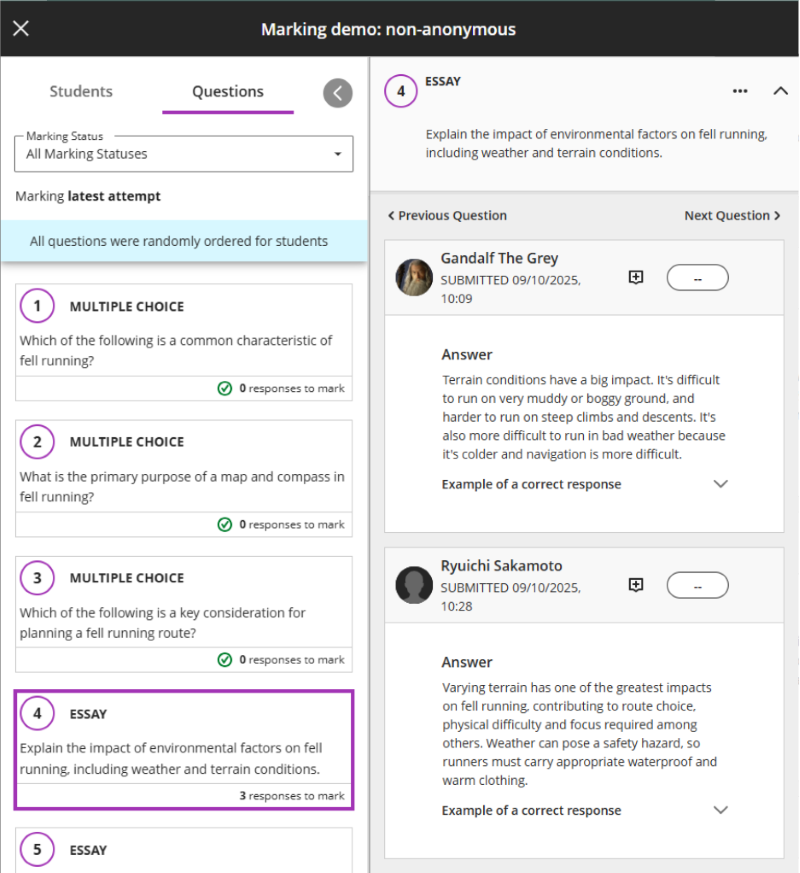
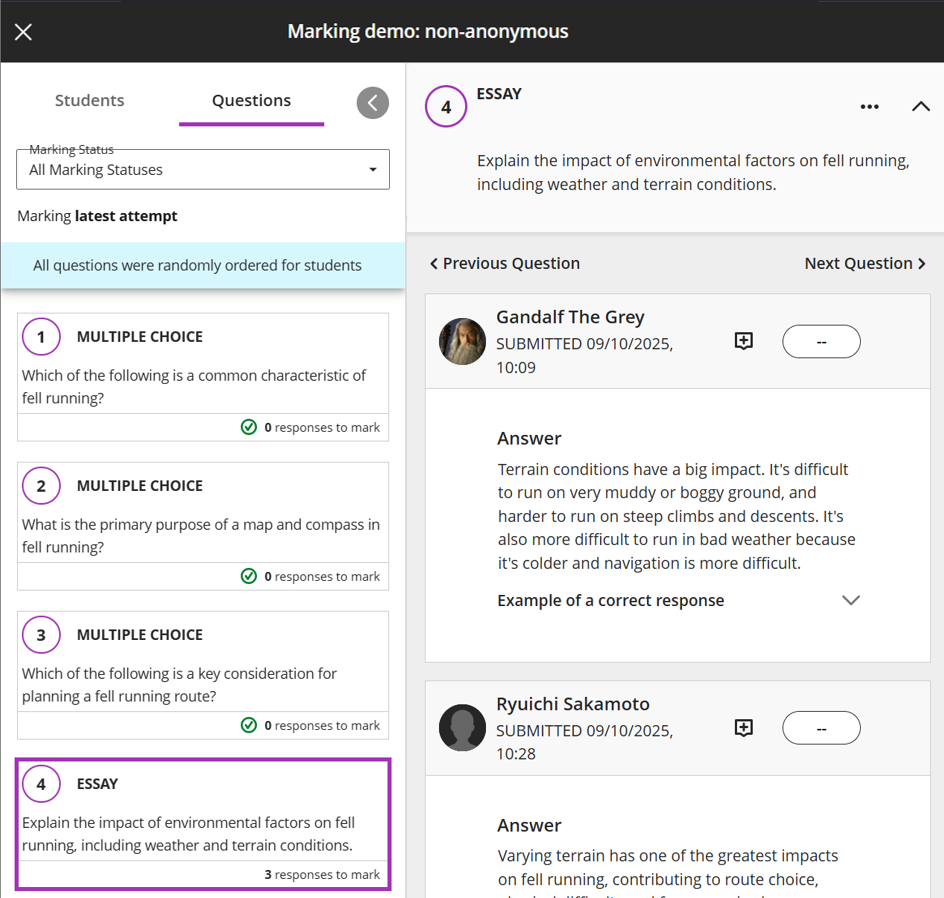
test - more image updates

diff --git a/docs/css/extra.css b/docs/css/extra.css
@@ -154,9 +154,9 @@ div.centered-image {
 }
 
 /* remove margins from figure*/
-figure.no-margin,
-figure.no-margin>p {
-    margin: 0;
+.md-typeset figure,
+.md-typeset figure>p:first-child {
+    margin-top: 0;
 }
 
 /*** ----- tabbed content styling */

diff --git a/docs/ultra/test.md b/docs/ultra/test.md
@@ -17,7 +17,10 @@ tags:
     - 4.1 Essential: The assessment section contains all information about module assessments.
     - 4.2 Essential: Assessment instructions are clearly labelled and explain the task and requirements.
 
-![Example Test with multiple choice and fill in the blank question types](images/test-example.png)
+<figure markdown>
+![Example Test showing multiple choice question, quick access settings and tab to access student submissions](images/test-example.png)
+<figcaption>Test: staff view of interface</figcaption>
+</figure>
 
 ## Uses of Test
 
@@ -207,27 +210,30 @@ See our [guide to accessible images in Ultra sites](../ultra/accessible-sites.md
 
 Make sure that the content needed to answer a question can be easily viewed on screen. Avoid requiring students to scroll through dropdowns, or other situations where they can't see all of the relevant question content at once.
 
+<div markdown class="grid">
+<div markdown>
 Some particular considerations:
 
 - Students may be taking the Test on a laptops or or other small screen, so trial your test in Student Preview mode to make sure content can be easily seen on a small screen.
-- If using images in Matching questions, put images inside the Prompt, not the Answer portion. This means students can see all the answer options together for each image. If  images are the answer options, students must scroll through the drop down to see them all. This makes it difficult to compare images, especially if they are similar.
-
+- If using multiple images in the same question, consider splitting these into separate questions to make images clearer. Eg. instead of a matching question with five plots, split each into its own multiple choice question with the same answer options.
+- If images must be used in Matching questions, put images inside the Prompt, not the Answer portion. This means students can see all the answer options together for each image. If  images are the answer options, students must scroll through the drop down to see them all. This makes it difficult to compare images, especially if they are similar.
+</div>
 <figure markdown>
-![Described in example](images/test-figures-matching-questions.png)
-<figcaption>Considering content visibility during question design</figcaption>
+![MCQ question (1 point): a single scatterplot with 5 text relationship options to select from. All is clear and easy to see.](images/test-content-visibility-separate-question.png)
+<figcaption>Best practice: separate question per figure</figcaption>
 </figure>
+</div>
 
-??? Abstract "Image description: content visibility example"
-
-    **Matching figures to text descriptions**
-
-    A matching question where scatterplots showing different correlations are matched to the text description (strong positive correlation, weak positive correlation, no correlation, weak negative correlation, strong negative correlation).
-
-    Question text: For each scatterplot, select the correlation shown.
-
-    Good practice: Scatterplots are the Prompts, so can all be seen and compared on the main page without scrolling. The text-based descriptions appear in an Answers drop-down list next to each scatterplot. These are text descriptions and can all be seen at once without scrolling.
-
-    Poor practice: Text descriptions are the Prompts, appearing in a short list. The scatterplots appear in an Answers drop-down list next to each description. Students must scroll through the plots, with only two of the plots visible at once.
+<div markdown class="grid">
+<figure markdown>
+![Matching question (5 points): scatterplots as prompts, with 5 text relationships options to select from in adjacent answers drop down. The figure is quite small, but can see all answer options.](images/test-content-visibility-images-prompts.png)
+<figcaption>Figures as matching question prompts</figcaption>
+</figure>
+<figure markdown>
+![Matching question (5 points): relationships as text prompts, with 5 scatterplots to select from in adjacent answers drop down. Can't see all answer option figures without scrolling.](images/test-content-visibility-images-options.png)
+<figcaption>Figures as matching question answers</figcaption>
+</figure>
+</div>
 
 ### Randomisation
 

diff --git a/docs/ultra/accessible-sites.md b/docs/ultra/accessible-sites.md
@@ -164,7 +164,7 @@ Images and figures must have an appropriate text-based alternative of the inform
 - **purely decorative images**: tick the box to *Mark the image as decorative*
 </div>
 <figure markdown>
-![Described in example below](images/test-figure-alt-text.png)
+![Described in example below](images/accessible-sites-figure-alt-text.png)
 <figcaption>ALT text describing a simple figure</figcaption>
 </figure>
 </div>
@@ -176,8 +176,6 @@ Images and figures must have an appropriate text-based alternative of the inform
     Question text: This scatterplot shows the relationship between two variables. What is the correlation shown?
 
     ALT text for the scatterplot: As x increases, y increases. Points are tightly distributed on a straight line.
-
-    Answer options: strong positive correlation, weak positive correlation, no correlation, weak negative correlation, strong negative correlation
 
 For more guidance on image descriptions:
 
